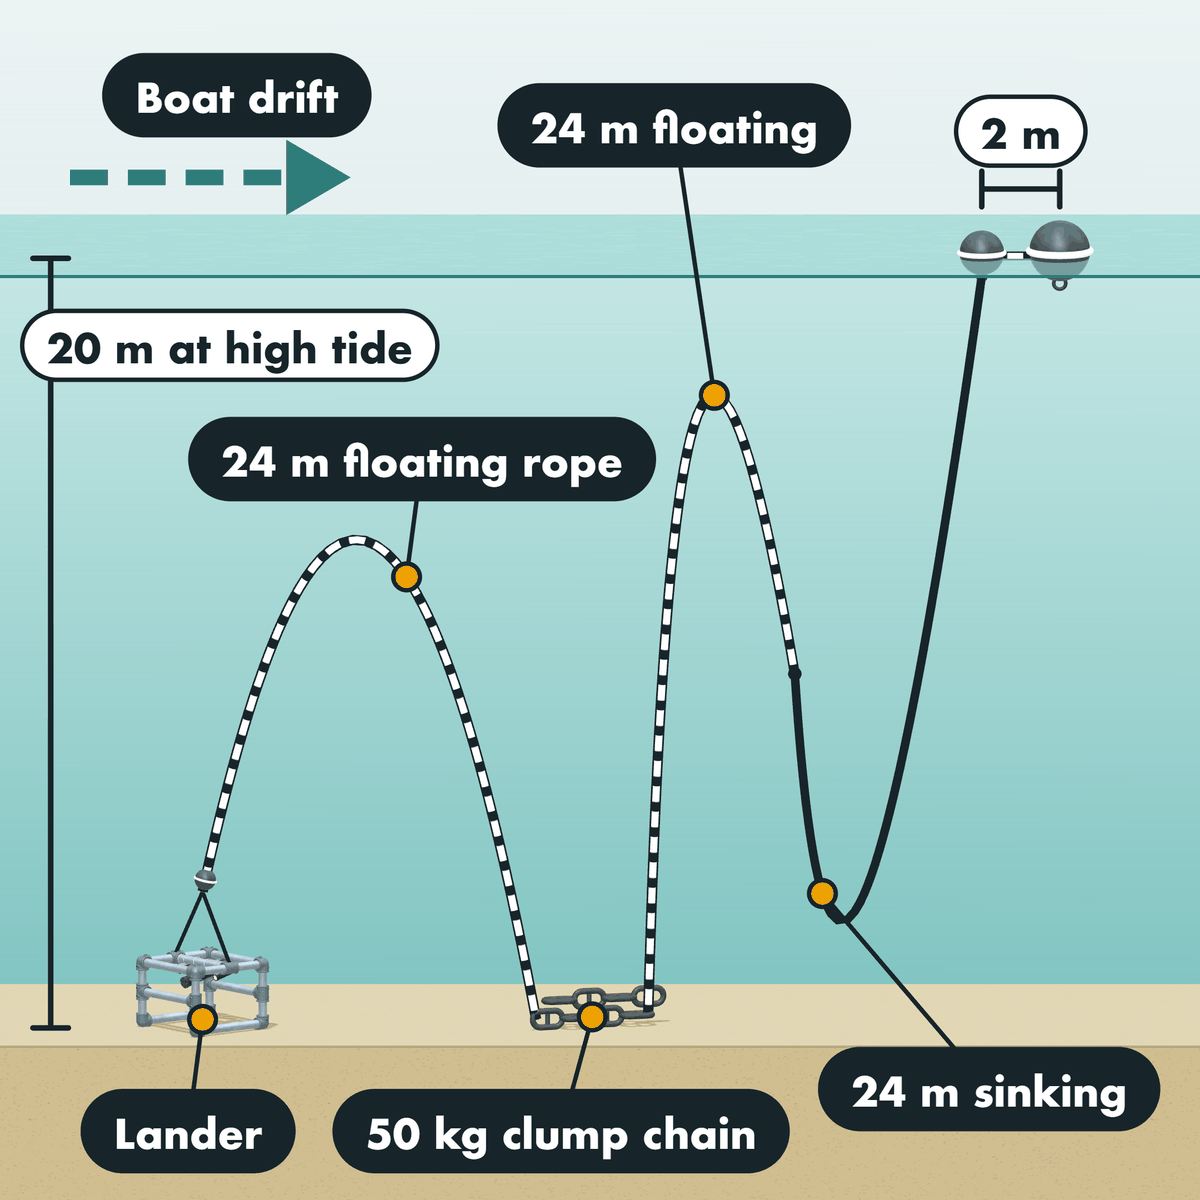
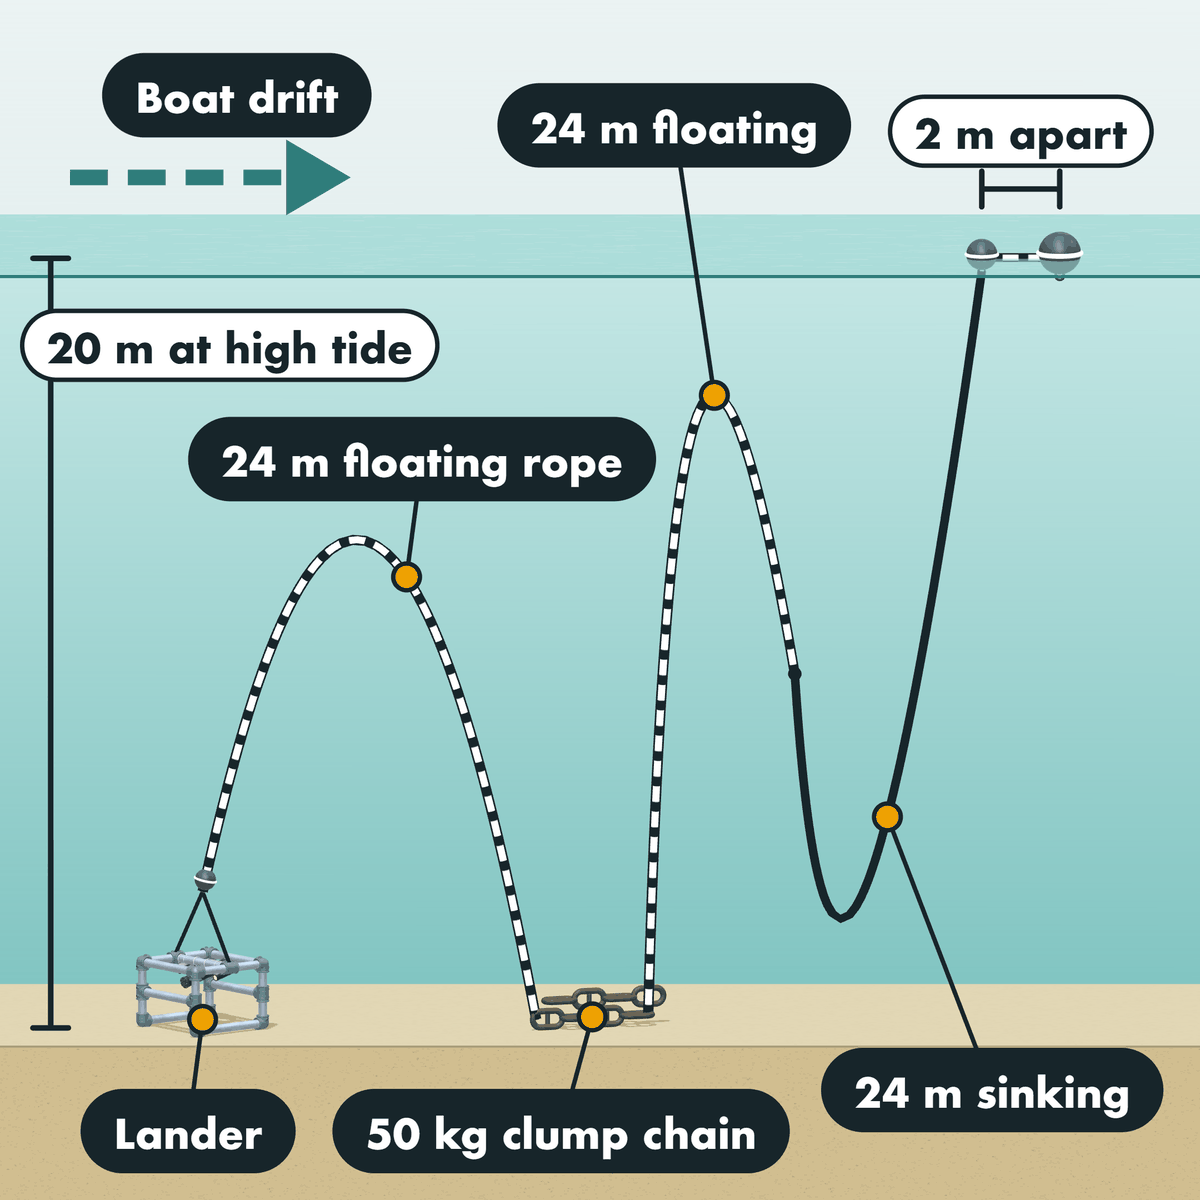
Mooring examples: fixes from review
- Parts lists are in the order the rig goes in: the floating half of the
  S-shaped rope at the chain, then the sinking half to the buoys. The
  text under each diagram says the same.
- Each page says what the drift arrow means and that the parts list
  leaves out the bridle. Frame Configurations no longer calls the lists
  full.
- Low says plainly that it uses a 10 kg chain, one rope and one buoy
  where the deployment video has 25 kg, an S-shaped rope and two buoys.
- The A0 buoy is 30 inches round, not across (Low and Med).
- Diagrams: "2 m apart" between the buoys, the High buoys drawn smaller
  so the gap shows, and the label for the sinking rope meets it above
  the bend.
- The PDF note says the PDF measures depth from chart datum and that its
  parts lists and totals differ.

diff --git a/docs/mooring-guide/frame-configurations/high-exposure.md b/docs/mooring-guide/frame-configurations/high-exposure.md
@@ -13,9 +13,9 @@ title: High Exposure
 
 </div>
 
-Every rope is as long as the depth at high tide plus 20%, so 24 m here, apart from the 2 m between the buoys. Striped rope floats and solid rope sinks. The ropes and the depth are drawn to scale. The lander, chain and buoys are not.
+Every rope is as long as the depth at high tide plus 20%, so 24 m here, apart from the 2 m between the buoys. Striped rope floats and solid rope sinks. The arrow shows the way the boat drifted as the rig went in, lander first. The ropes and the depth are drawn to scale. The lander, chain and buoys are not.
 
-The [deployment video](../deployment.md) shows how to put this rig in the water. Its example is 10 m deep, so its ropes are 12 m.
+The [deployment video](../deployment.md) shows how to put this rig in the water. Its example is 10 m deep, so its ropes are 12 m. From the chain up, the S-shaped rope is the floating surface rope first, then the sinking up-line rope to the buoys.
 
 ## Bill of Materials for high exposure example
 
@@ -26,10 +26,12 @@ The [deployment video](../deployment.md) shows how to put this rig in the water.
 | **High exp. microlander frame** | 48.3 mm galv. tube, 500 × 500 × 350 mm<br/>13 tubes / 14 key clamp fittings<br/>themetalstore.co.uk | £163.72<br/>(£15 shipping) |
 | **Floating ground rope** | 14 mm Polysteel, 24 m<br/>gaelforcemarine.co.uk | £8.50<br/>(Sold in 220 m length at £77.91, £20 shipping) |
 | **Mooring clump chain** | 50 kg Used 42 to 44 mm stud link chain<br/>E.Y.E. Marine Ltd. | £47.50<br/>(£70 shipping) |
-| **Sinking up-line rope** | 14 mm Polysteel Leaded, 24 m<br/>gaelforcemarine.co.uk | £22.74<br/>(Sold in 220 m length at £208.43, £20 shipping) |
 | **Floating surface rope** | 14 mm Polysteel, 24 m<br/>gaelforcemarine.co.uk | £8.50<br/>(Sold in 220 m length at £77.91, £20 shipping) |
+| **Sinking up-line rope** | 14 mm Polysteel Leaded, 24 m<br/>gaelforcemarine.co.uk | £22.74<br/>(Sold in 220 m length at £208.43, £20 shipping) |
 | **Surface buoy rope** | 14 mm Polysteel, 2 m<br/>gaelforcemarine.co.uk | £0.71<br/>(Sold in 220 m length at £77.91, £20 shipping) |
 | **Surface buoys** | 1x Polyform A0 Net Buoy 30" circ<br/>1x Polyform A1 Net Buoy 40" circ<br/>gaelforcemarine.co.uk | £46.99<br/>(A0: £20.36, A1: £26.63, £7 shipping) |
 | **TOTAL** |  | **£298.66 (marginal cost)** |
 
 </div>
+
+The list does not include the bridle, which is two short ropes and a small 2 litre buoy.

diff --git a/docs/mooring-guide/frame-configurations/med-exposure.md b/docs/mooring-guide/frame-configurations/med-exposure.md
@@ -13,9 +13,9 @@ title: Med Exposure
 
 </div>
 
-Every rope is as long as the depth at high tide plus 20%, so 12 m here, apart from the 2 m between the buoys. Striped rope floats and solid rope sinks. The ropes and the depth are drawn to scale. The lander, chain and buoys are not.
+Every rope is as long as the depth at high tide plus 20%, so 12 m here, apart from the 2 m between the buoys. Striped rope floats and solid rope sinks. The arrow shows the way the boat drifted as the rig went in, lander first. The ropes and the depth are drawn to scale. The lander, chain and buoys are not.
 
-This is the rig in the [deployment video](../deployment.md), which shows how to put it in the water.
+This is the rig in the [deployment video](../deployment.md), which shows how to put it in the water. From the chain up, the S-shaped rope is the floating surface rope first, then the sinking up-line rope to the buoys.
 
 ## Bill of Materials for med exposure example
 
@@ -26,10 +26,12 @@ This is the rig in the [deployment video](../deployment.md), which shows how to 
 | **Med exp. microlander frame** | 42.4 mm galv. tube, 500 × 500 × 350 mm<br/>11 tubes / 14 key clamp fittings<br/>themetalstore.co.uk | £120.20<br/>(£15 shipping) |
 | **Floating ground rope** | 14 mm Polysteel, 12 m<br/>gaelforcemarine.co.uk | £4.25<br/>(Sold in 220 m length at £77.91, £20 shipping) |
 | **Mooring clump chain** | 25 kg Used 42 to 44 mm stud link chain<br/>E.Y.E. Marine Ltd. | £23.75<br/>(£70 shipping) |
-| **Sinking up-line rope** | 14 mm Polysteel Leaded, 12 m<br/>gaelforcemarine.co.uk | £11.37<br/>(Sold in 220 m length at £208.43, £20 shipping) |
 | **Floating surface rope** | 14 mm Polysteel, 12 m<br/>gaelforcemarine.co.uk | £4.25<br/>(Sold in 220 m length at £77.91, £20 shipping) |
+| **Sinking up-line rope** | 14 mm Polysteel Leaded, 12 m<br/>gaelforcemarine.co.uk | £11.37<br/>(Sold in 220 m length at £208.43, £20 shipping) |
 | **Surface buoy rope** | 14 mm Polysteel, 2 m<br/>gaelforcemarine.co.uk | £0.71<br/>(Sold in 220 m length at £77.91, £20 shipping) |
-| **Surface buoys** | 2x Polyform A0 Net Buoy 30" diam<br/>gaelforcemarine.co.uk | £40.72<br/>(£7 shipping) |
+| **Surface buoys** | 2x Polyform A0 Net Buoy 30" circ<br/>gaelforcemarine.co.uk | £40.72<br/>(£7 shipping) |
 | **TOTAL** |  | **£205.25 (marginal cost)** |
 
 </div>
+
+The list does not include the bridle, which is two short ropes and a small 2 litre buoy.

diff --git a/docs/mooring-guide/frame-configurations/low-exposure.md b/docs/mooring-guide/frame-configurations/low-exposure.md
@@ -13,9 +13,9 @@ title: Low Exposure
 
 </div>
 
-Both ropes are as long as the depth at high tide plus 20%, so 6 m here. Striped rope floats and solid rope sinks. The ropes and the depth are drawn to scale. The lander, chain and buoy are not.
+Both ropes are as long as the depth at high tide plus 20%, so 6 m here. Striped rope floats and solid rope sinks. The arrow shows the way the boat drifted as the rig went in, lander first. The ropes and the depth are drawn to scale. The lander, chain and buoy are not.
 
-This rig has one sinking rope and one buoy in place of the S-shaped rope and two buoys shown in the [deployment video](../deployment.md). It goes in the same way.
+This is a lighter rig than the one in the [deployment video](../deployment.md). It has a 10 kg chain, one sinking rope and one buoy, where the video has a 25 kg chain, an S-shaped rope and two buoys. The steps are the same.
 
 ## Bill of Materials for low exposure example
 
@@ -27,7 +27,9 @@ This rig has one sinking rope and one buoy in place of the S-shaped rope and two
 | **Floating ground rope** | 14 mm Polysteel, 6 m<br/>gaelforcemarine.co.uk | £2.12<br/>(Sold in 220 m length at £77.91, £20 shipping) |
 | **Mooring clump chain** | 10 kg Used 42 to 44 mm stud link chain<br/>E.Y.E. Marine Ltd. | £9.50<br/>(£70 shipping) |
 | **Sinking up-line rope** | 14 mm Polysteel Leaded, 6 m<br/>gaelforcemarine.co.uk | £5.68<br/>(Sold in 220 m length at £208.43, £20 shipping) |
-| **Surface buoy** | Polyform A0 Net Buoy 30" diam<br/>gaelforcemarine.co.uk | £20.36<br/>(£7 shipping) |
+| **Surface buoy** | Polyform A0 Net Buoy 30" circ<br/>gaelforcemarine.co.uk | £20.36<br/>(£7 shipping) |
 | **TOTAL** |  | **£117.18 (marginal cost)** |
 
 </div>
+
+The list does not include the bridle, which is two short ropes and a small 2 litre buoy.

diff --git a/docs/mooring-guide/index.md b/docs/mooring-guide/index.md
@@ -5,7 +5,7 @@ description: Standard mooring configurations for PEBL SubCam benthic deployments
 
 # Mooring Guide for benthic SubCam deployment
 
-[**📄 Download the PDF version**](pathname:///files/PEBL_Mooring_Guide_SubCam_V2.pdf) (4-page printable layout). The PDF dates from May 2026 and its mooring examples use longer ropes. For rope lengths, follow the pages here.
+[**📄 Download the PDF version**](pathname:///files/PEBL_Mooring_Guide_SubCam_V2.pdf) (4-page printable layout). The PDF dates from May 2026. Its mooring examples measure depth from chart datum and use longer ropes, so their parts lists and totals differ. Follow the pages here.
 
 This guide describes the standard mooring configurations for **PEBL SubCam** benthic deployments. Moorings are documented for three exposure ratings (**Low**, **Med** and **High**) to suit a range of tidal and wave-energy environments.
 

diff --git a/docs/mooring-guide/frame-configurations/index.md b/docs/mooring-guide/frame-configurations/index.md
@@ -30,7 +30,7 @@ Watch the 75-second [deployment video](../deployment.md), with the same steps in
 
 ## Mooring examples by exposure
 
-Three worked examples, one per exposure rating. Each page contains a cross-section diagram and a full Bill of Materials with current supplier prices (May 2026). Depths are at high tide. Every rope is as long as that depth plus 20%, apart from the 2 m between two buoys.
+Three worked examples, one per exposure rating. Each page contains a cross-section diagram and a Bill of Materials with current supplier prices (May 2026). Depths are at high tide. Every rope is as long as that depth plus 20%, apart from the 2 m between two buoys.
 
 * [Low Exposure](./low-exposure.md): 5 m depth, &lt;2 m wave / &lt;1 m/s
 * [Med Exposure](./med-exposure.md): 10 m depth, &lt;5 m wave / &lt;2 m/s
